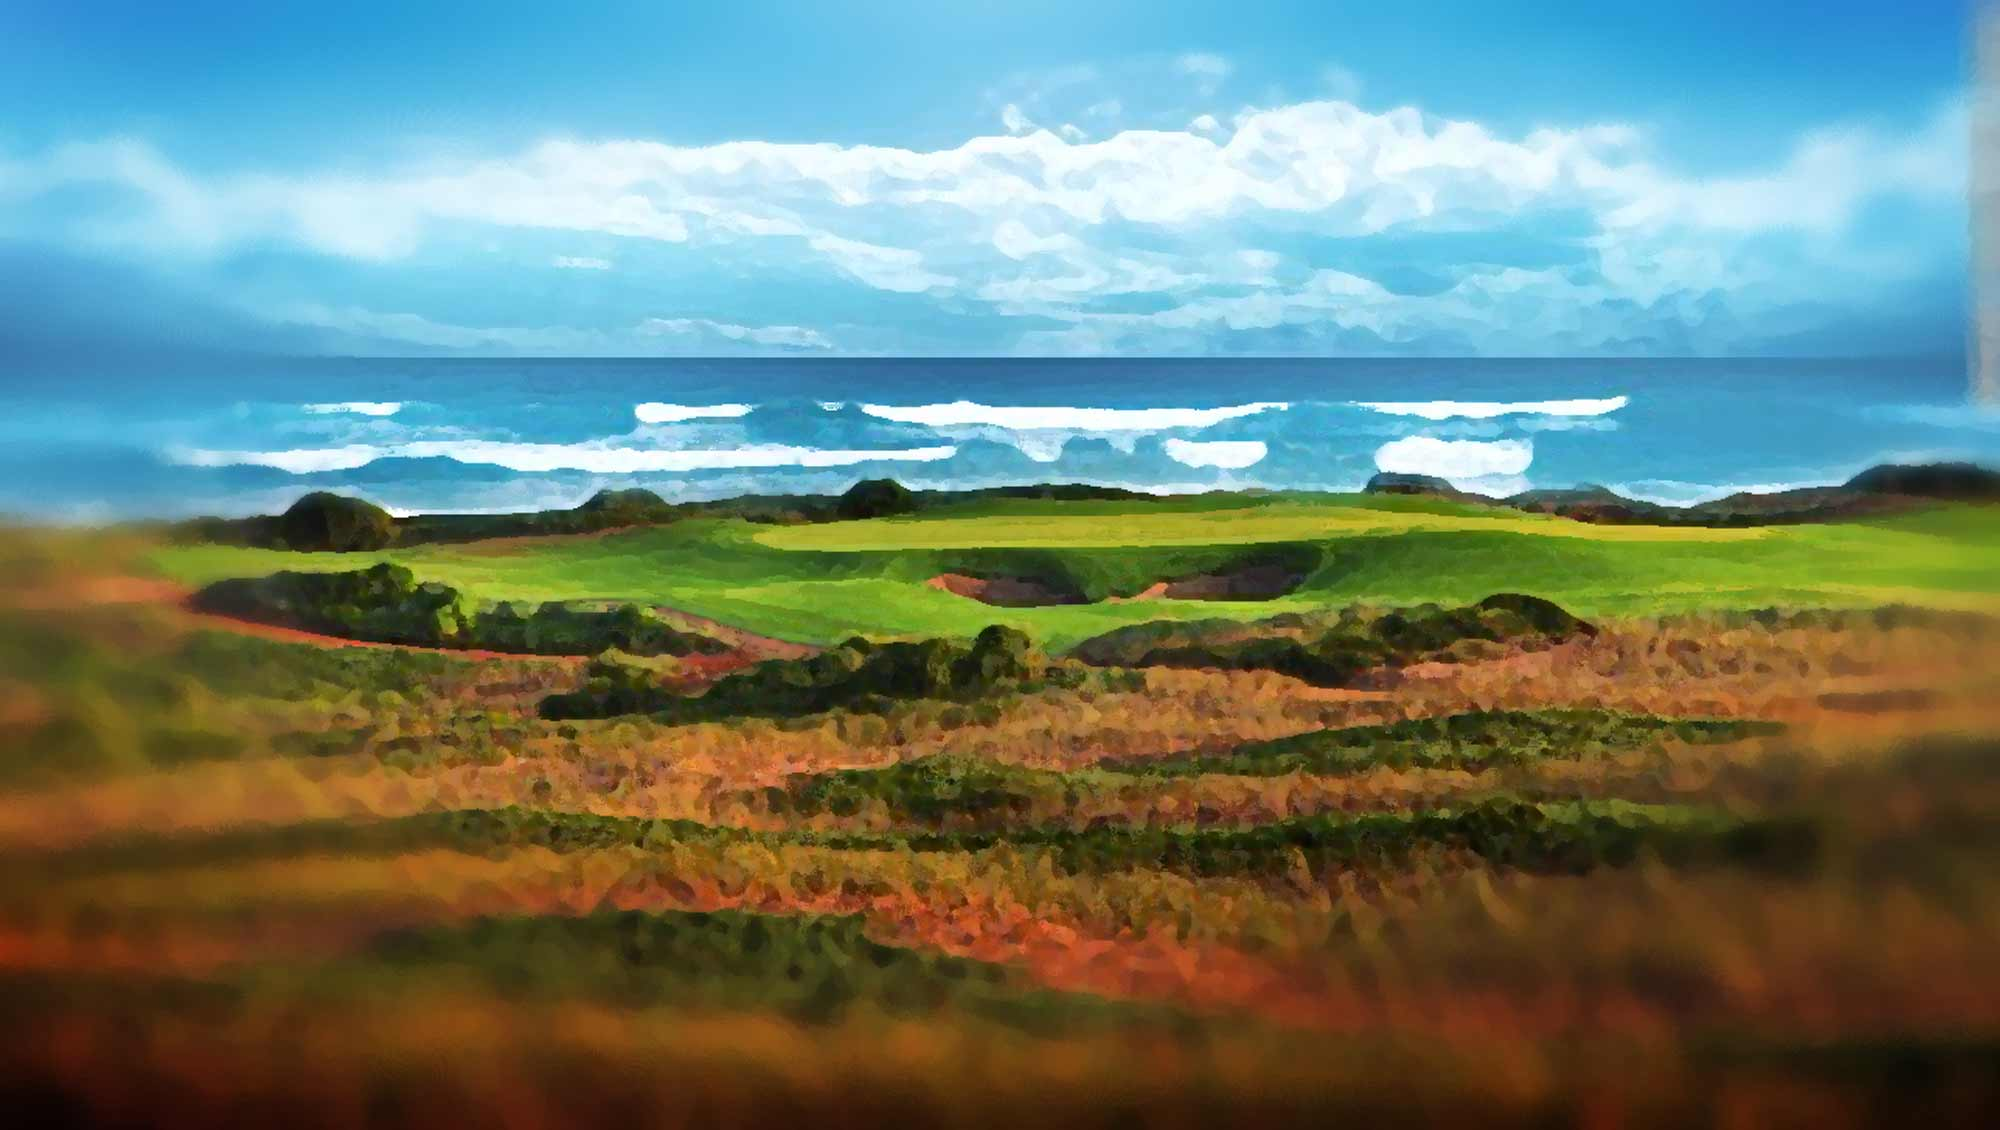
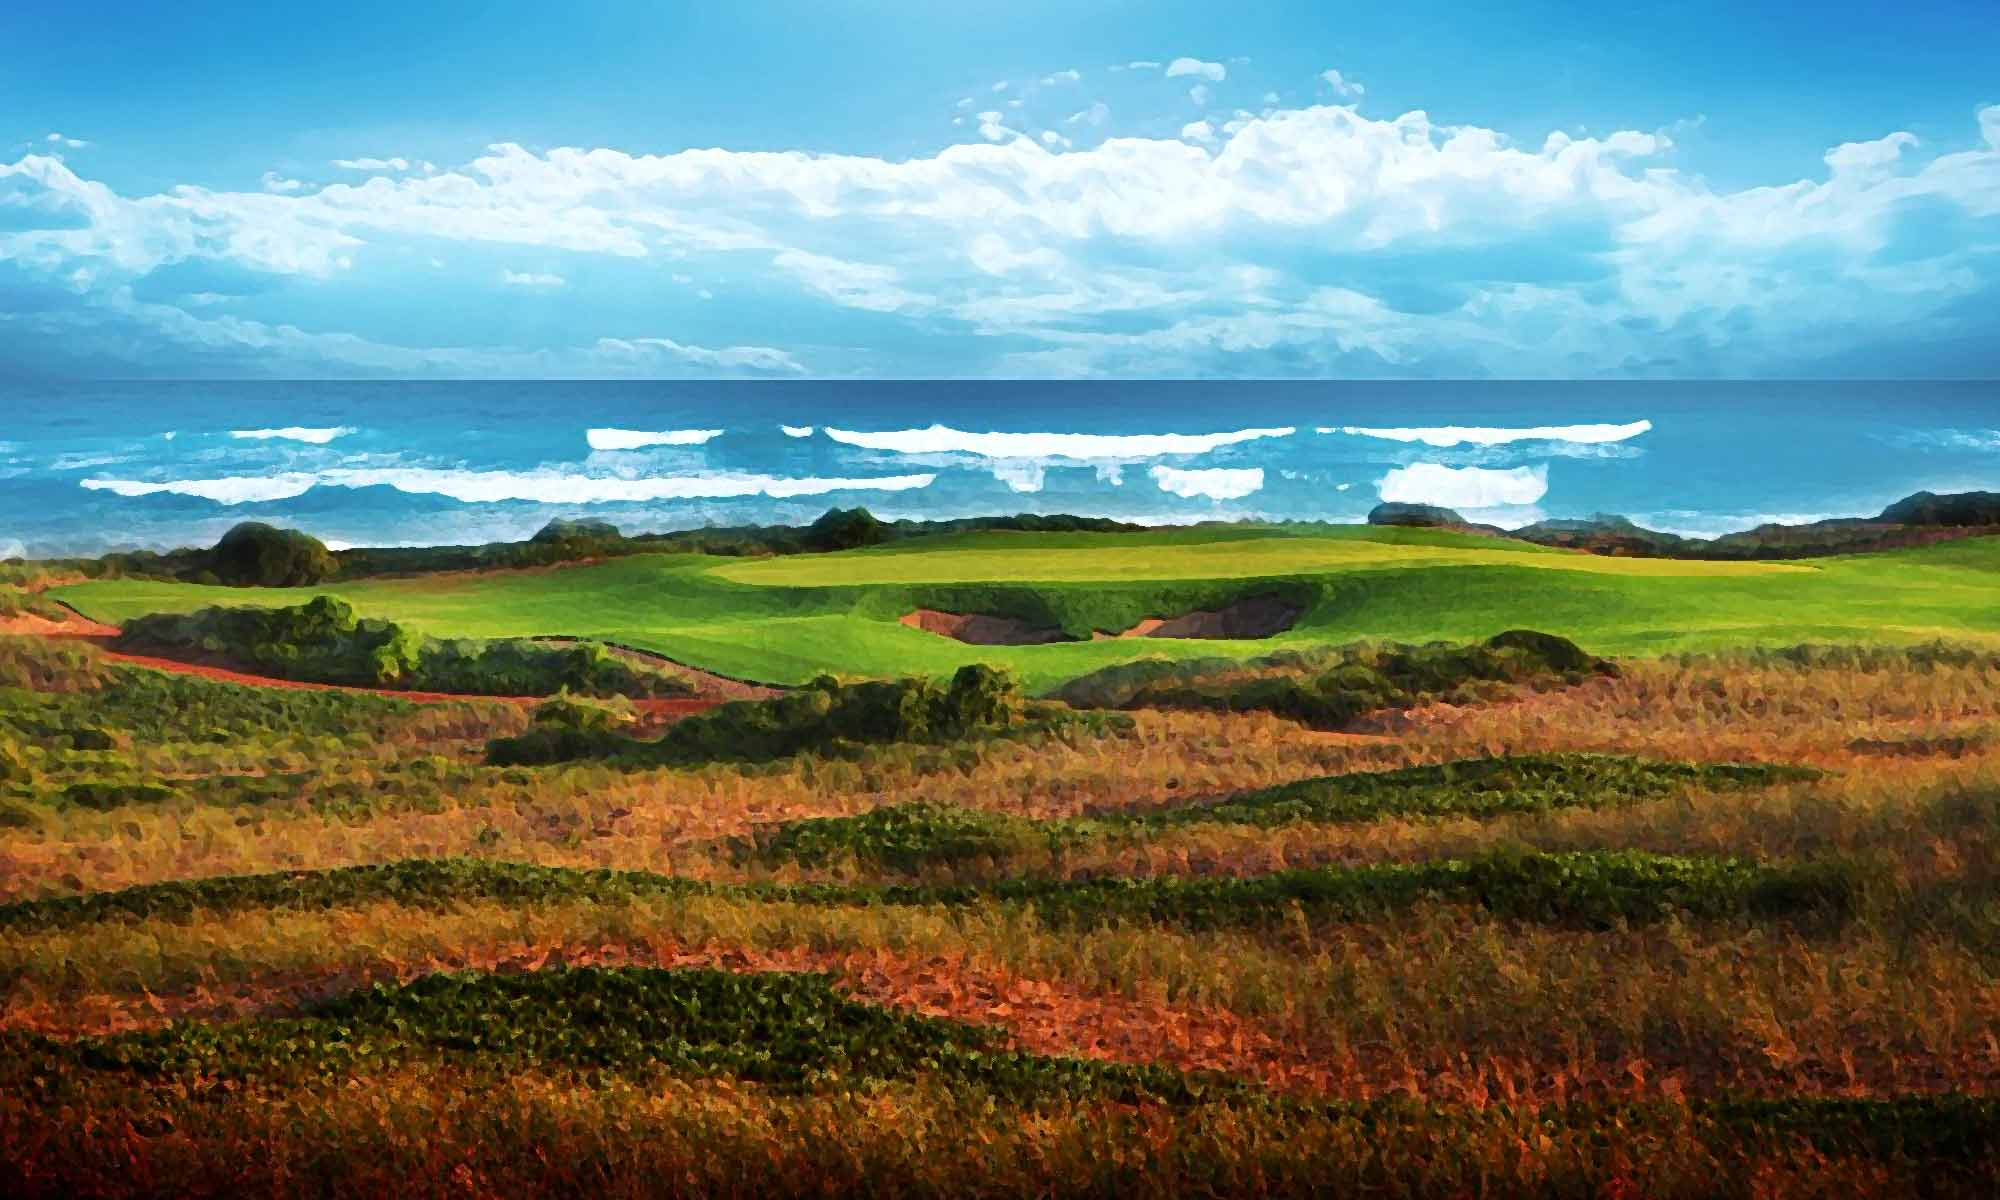
specs + images + styling + devise confirmable + populate

diff --git a/app/assets/stylesheets/custom.css.scss b/app/assets/stylesheets/custom.css.scss
@@ -113,8 +113,11 @@ center h1 {
 
 /* custom colors */
 
-green {
+green, green a {
 	color: $green;
+}
+red, red a {
+	color: $red;
 }
 
 /*----------------------Containers ------------------------------*/
@@ -213,15 +216,15 @@ h1.circle {
 /* ------------------------- Footer --------------------------------------------*/
 
 #footer {
-	color: #ddd;
+	color: #fff;
 	font-weight:400;
 	text-align:center;
-	text-shadow: 0 1px 1px $blackhole;
-	background: $ocean;
+	text-shadow: 0 1px 1px #333;
+	background: #777;
 	height:100px;
-	-webkit-box-shadow: inset 0px 5px 20px $universe;
-	box-shadow: inset 0px 5px 20px $universe;
-	-moz-box-shadow: inset 0px 5px 20px $universe;
+	-webkit-box-shadow: inset 0px 5px 20px #555;
+	box-shadow: inset 0px 5px 20px #666;
+	-moz-box-shadow: inset 0px 5px 20px #555;
 }
 #push {
 	height: 100px;

diff --git a/app/assets/stylesheets/overide.css.scss b/app/assets/stylesheets/overide.css.scss
@@ -276,6 +276,21 @@ input:-webkit-autofill {
 .sebonak-large {
 	background: url(sebonak-large.jpg);
 	background-position: center center;
+	height:100%;
+}
+.beach-xl {
+	background: url(teebox-beach-xl.jpg);
+	background-position: center center;
+	height:100%;
+}
+.banff-l {
+	background: url(banff-l.jpg);
+	background-position: center center;
+	height:100%;
+}
+.teebox-landscape-xl {
+	background: url(teebox-landscape-xl.jpg);
+	background-position: center center;
 	width:100%;
 }
 .mountain {	

diff --git a/spec/helpers/application_helper_spec.rb b/spec/helpers/application_helper_spec.rb
@@ -23,7 +23,7 @@ describe ApplicationHelper do
     it "returns formatted html" do
       current_user = @user1
       @answer = create(:answer, user: @user1)
-      helper.edit_delete_links(@answer, { path: edit_answer_path(@answer), delete_id: "delete-answer", edit_id: "edit-answer" }).should eq "<a href=\"/answers/1\" data-method=\"delete\" data-remote=\"true\" id=\"delete-answer\" rel=\"nofollow\">Delete </a><a href=\"/answers/1/edit\" data-remote=\"true\" id=\"edit-answer\">Edit</a>".html_safe
+      helper.edit_delete_links(@answer, { path: edit_answer_path(@answer), delete_id: "delete-answer", edit_id: "edit-answer" }).should eq "<a href=\"/answers/1\" data-confirm=\"Are you sure\" data-method=\"delete\" data-remote=\"true\" id=\"delete-answer\" rel=\"nofollow\">Delete </a><a href=\"/answers/1/edit\" data-remote=\"true\" id=\"edit-answer\">Edit</a>".html_safe
     end
   end
   
@@ -52,6 +52,16 @@ describe ApplicationHelper do
       @answer = create(:answer, user_id: @user2.id, question_id: @question.id, correct: true)
       helper.points_from_correct(@question).should eq "+5"
     end
+  end
+  
+  describe "hide footer" do
+    it "shouldn't hide footer on home page" do
+      helper.hide_footer.should eq ''
+      end
+      
+    it "hides the footer on correct page" do
+      
+    end  
   end
 end
 

diff --git a/app/helpers/application_helper.rb b/app/helpers/application_helper.rb
@@ -18,7 +18,7 @@ module ApplicationHelper
   
   #remote true links 
   def edit_delete_links(object, options={}) 
-		out = capture { link_to "Delete ", object, method: :delete, id: options[:delete_id], class: options[:delete_class], remote: :true } if object
+		out = capture { link_to "Delete ", object, method: :delete, id: options[:delete_id], class: options[:delete_class], remote: :true, confirm: "Are you sure" } if object
 		out << capture { link_to "Edit", options[:path], id: options[:edit_id], class: options[:edit_class], remote: true } if options[:path]
 		out if can? :edit && :destroy, object 
 	end
@@ -30,5 +30,9 @@ module ApplicationHelper
   def avatar_url(user, size=35)
     gravatar_id = Digest::MD5.hexdigest(user.email.downcase) if user
      "http://gravatar.com/avatar/#{gravatar_id}.png?s=#{size}&d=identicon"
+  end
+  
+  def hide_footer
+    current_page?(new_user_session_path) || current_page?(new_user_registration_path) || current_page?(new_user_confirmation_path) ? 'hide' : ''
   end
 end

diff --git a/app/controllers/answers_controller.rb b/app/controllers/answers_controller.rb
@@ -55,14 +55,14 @@ class AnswersController < ApplicationController
   
   def correct 
     if @answer.toggle_correct(:correct)
-      @answer.create_activity :correct, owner: current_user, 
-                                        recipient: @answer.user unless @answer.user == @answer.question.user || @answer.correct == false
-       @answer.toggle_question_correct
-       @answer.add_reputation
-        respond_to do |format|
-          format.html { redirect_to :back, notice: "Answer submitted" }
-          format.js
-      end
+        @answer.create_activity :correct, owner: current_user, 
+                                          recipient: @answer.user unless @answer.user == @answer.question.user || @answer.correct == false
+         @answer.toggle_question_correct
+         @answer.add_reputation
+          respond_to do |format|
+            format.html { redirect_to :back, notice: "Answer submitted" }
+            format.js
+          end
+       end
     end
-  end
 end

diff --git a/app/models/user.rb b/app/models/user.rb
@@ -1,5 +1,5 @@
 class User < ActiveRecord::Base
-  # :token_authenticatable, :confirmable,
+  # :token_authenticatable
   # :lockable, :timeoutable and :omniauthable
   devise :database_authenticatable, :registerable, :confirmable,
          :recoverable, :rememberable, :trackable, :validatable 
@@ -18,5 +18,18 @@ class User < ActiveRecord::Base
   
   def to_param
     "#{id} - #{username}".parameterize
+  end
+  
+  #Devise delayed mailers
+  def send_on_create_confirmation_instructions
+    Devise::Mailer.delay.confirmation_instructions(self)
+  end
+
+  def send_reset_password_instructions
+    Devise::Mailer.delay.reset_password_instructions(self)
+  end
+
+  def send_unlock_instructions
+    Devise::Mailer.delay.unlock_instructions(self)
   end
 end

diff --git a/spec/spec_helper.rb b/spec/spec_helper.rb
@@ -40,6 +40,8 @@ RSpec.configure do |config|
   config.include Devise::TestHelpers, type: :controller
   
   config.use_transactional_fixtures = true
+  
+  config.include Capybara::DSL
 
   # If true, the base class of anonymous controllers will be inferred
   # automatically. This will be the default behavior in future versions of
